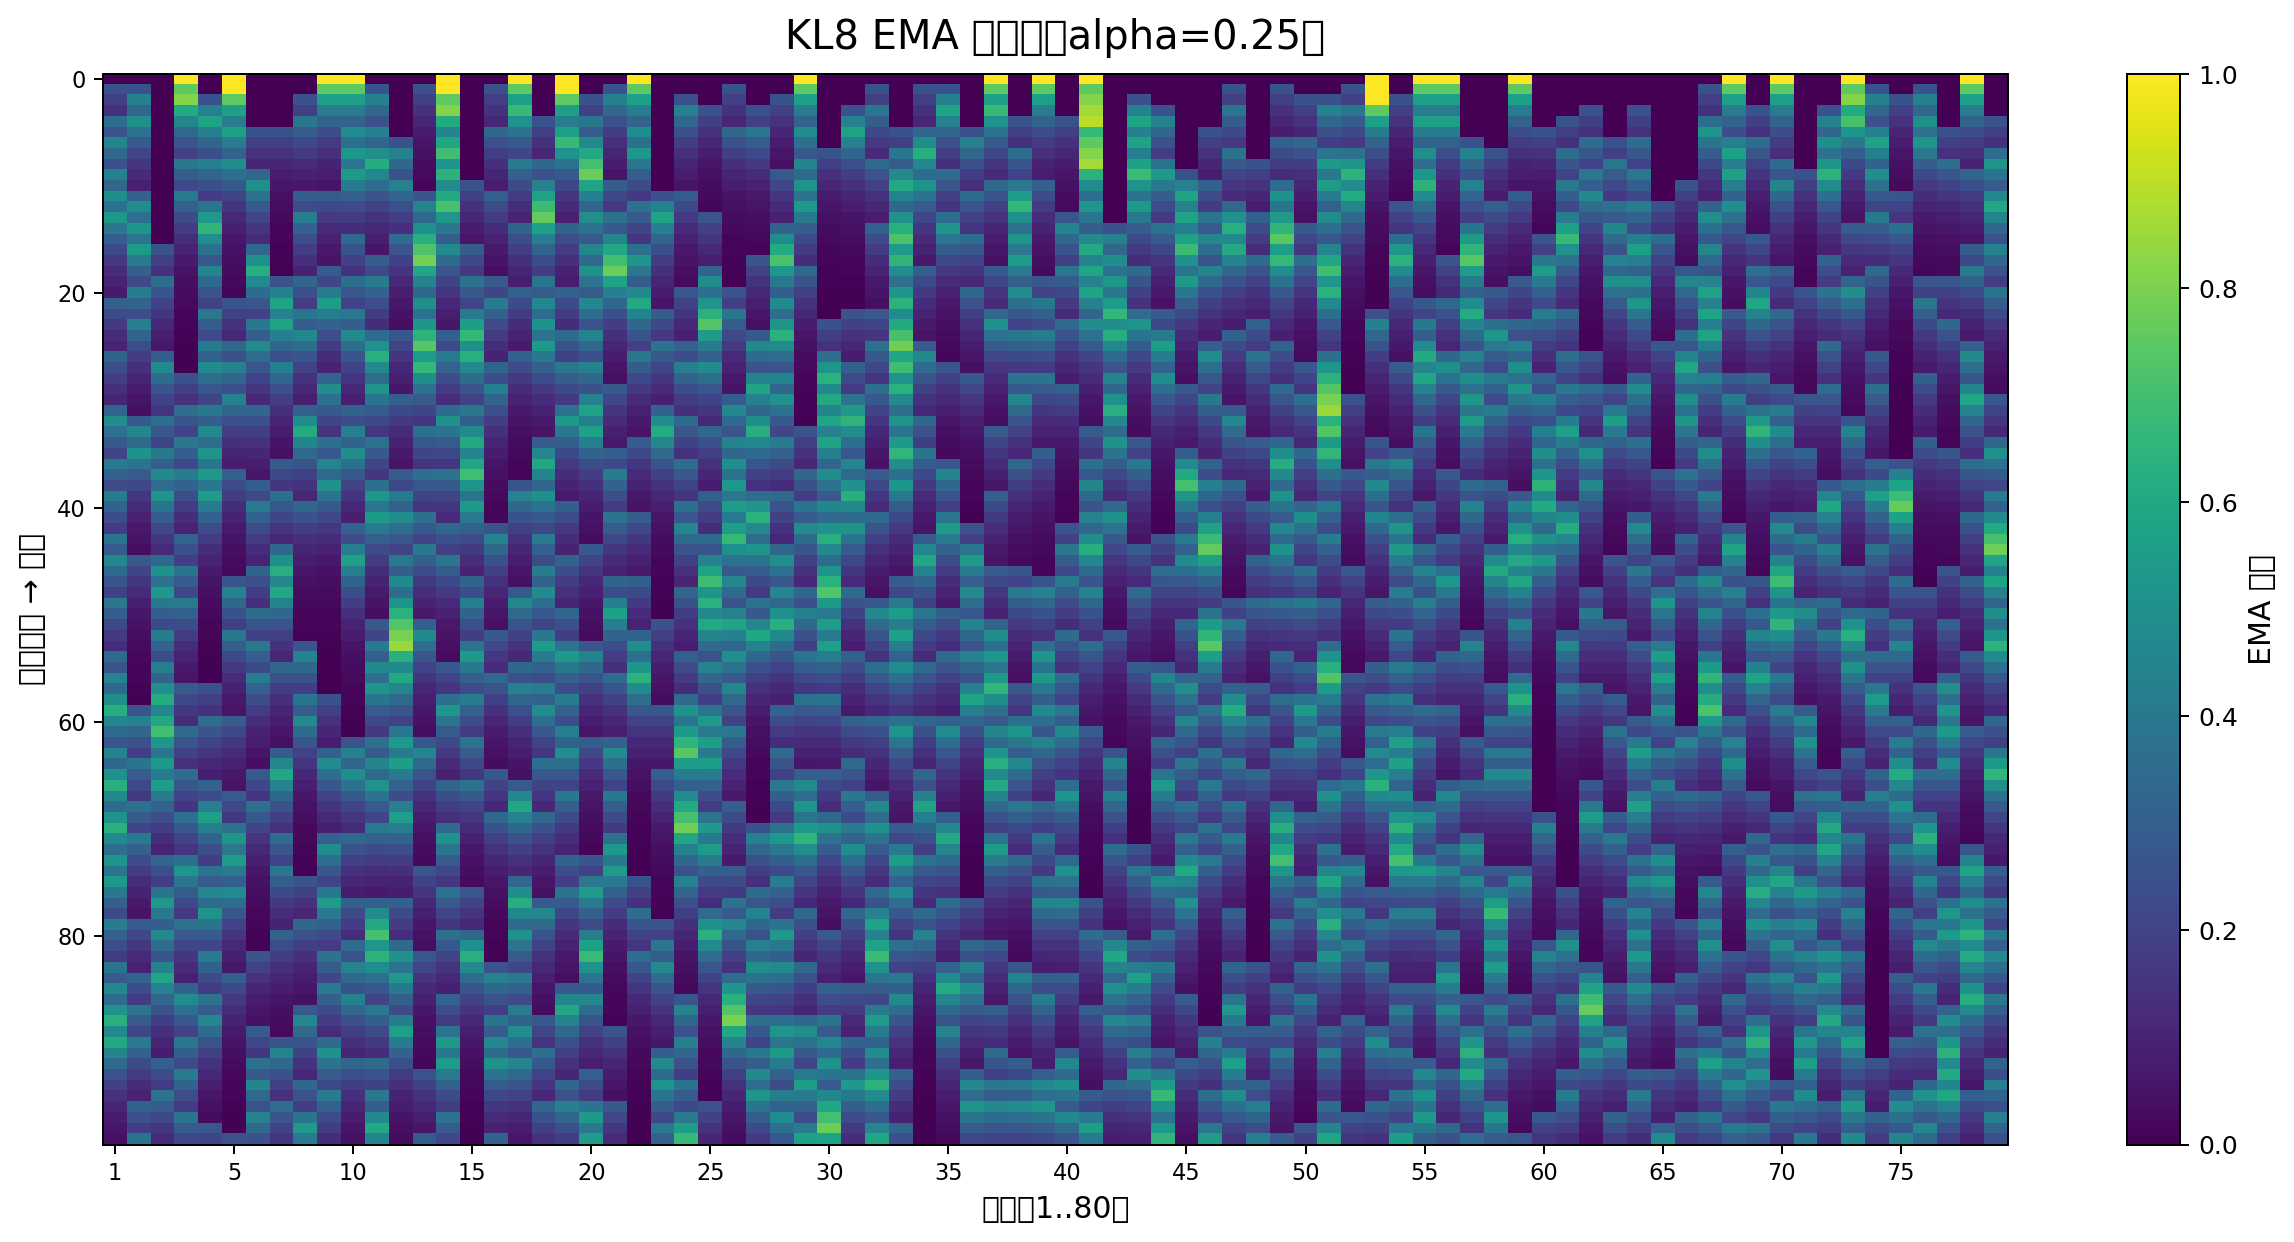
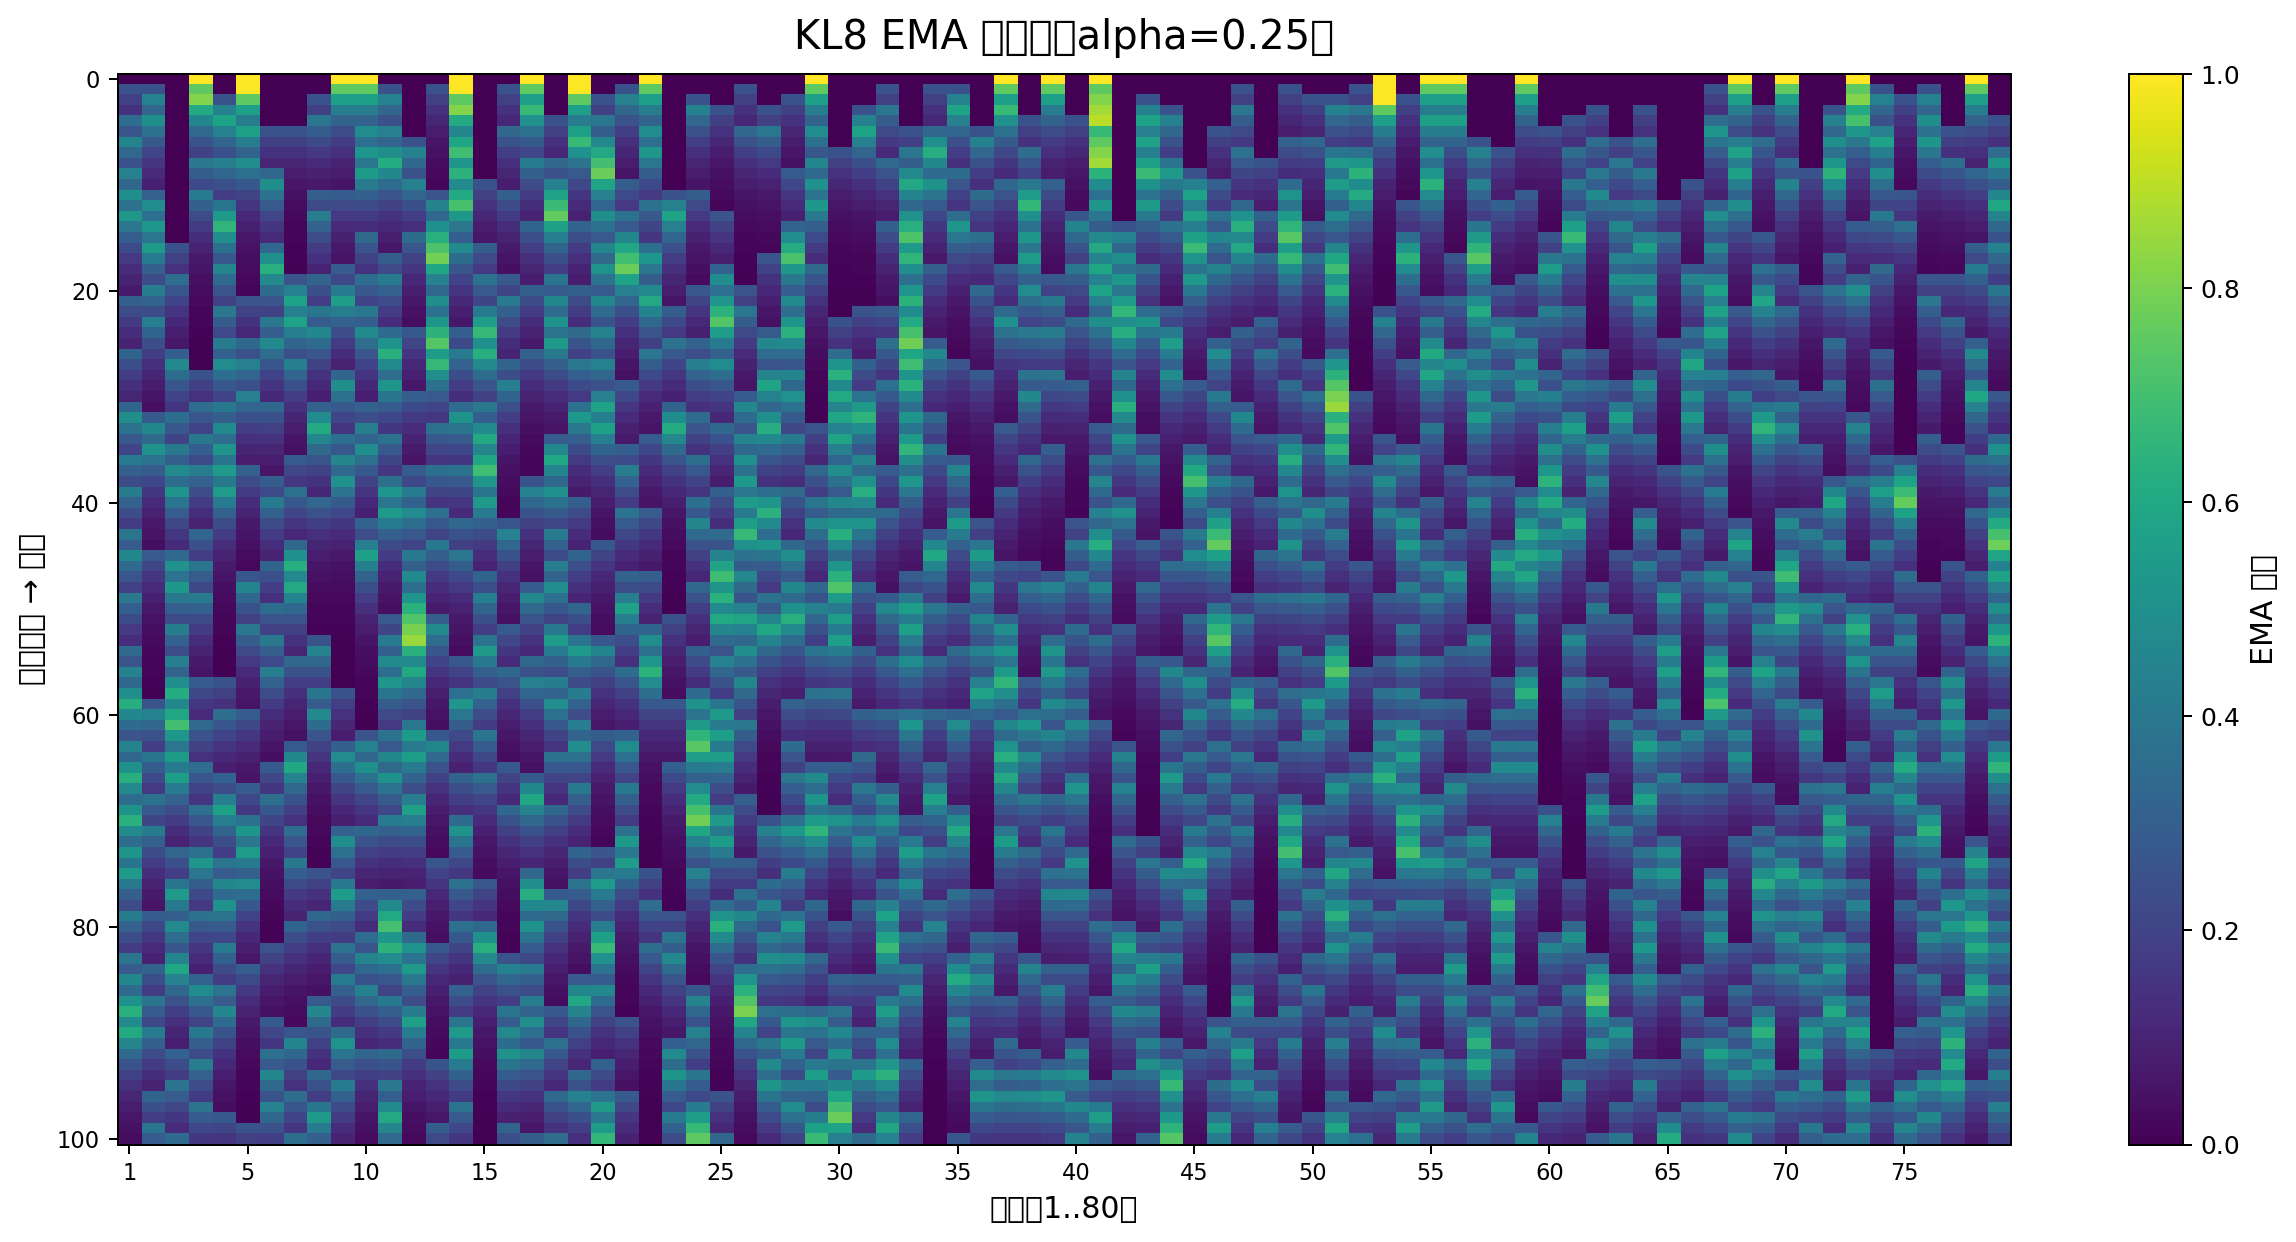
Update lottery data and analysis reports - 2025-08-15 23:15:19 (UTC+8)

Changed region(s): [[0.031, 0.0, 0.8976, 1.0]]

diff --git a/reports/kl8_analysis_report.md b/reports/kl8_analysis_report.md
@@ -3,30 +3,30 @@
 > 免责声明：历史数据无法预测未来。本报告仅供技术学习参考，不构成投注建议。
 
 
-**数据期数**: 100 期
+**数据期数**: 101 期
 
-**最近开奖**: 期号 2025216 | 日期 2025-08-14(四) | 号码: 02, 06, 14, 17, 21, 25, 30, 33, 45, 47, 49, 50, 52, 55, 58, 60, 66, 72, 74, 76
+**最近开奖**: 期号 2025217 | 日期 2025-08-15(五) | 号码: 03, 08, 18, 19, 21, 25, 26, 30, 32, 36, 41, 44, 45, 53, 60, 63, 64, 66, 69, 73
 
-**和值均值(样本)**: 803.54 ；**理论期望**: 810
+**和值均值(样本)**: 803.47 ；**理论期望**: 810
 
 
 ## 热号 Top15
 
-52(39), 34(35), 12(33), 01(32), 29(32), 68(31), 80(31), 21(30), 31(30), 50(30), 55(30), 15(29), 25(29), 05(28), 13(28)
+52(39), 34(35), 12(33), 01(32), 29(32), 21(31), 68(31), 80(31), 25(30), 31(30), 50(30), 55(30), 15(29), 19(29), 26(29)
 
 
 ## 冷号 Top15
 
-49(17), 53(18), 24(18), 67(19), 23(19), 17(19), 66(20), 64(20), 61(20), 06(20), 75(21), 63(21), 51(21), 37(21), 78(22)
+49(17), 24(18), 67(19), 53(19), 23(19), 17(19), 61(20), 06(20), 75(21), 66(21), 64(21), 51(21), 37(21), 78(22), 63(22)
 
 
 ## 推荐组合（示例，非投注建议）
 
-- 方案1: 01, 02, 03, 04, 08, 19, 20, 21, 24, 25, 37, 45, 47, 50, 52, 55, 56, 60, 69, 73
-- 方案2: 08, 09, 14, 29, 30, 32, 42, 43, 45, 48, 49, 55, 58, 64, 66, 68, 69, 71, 77, 78
-- 方案3: 04, 06, 07, 11, 19, 24, 31, 33, 34, 42, 45, 47, 49, 54, 66, 69, 73, 77, 79, 80
-- 方案4: 02, 11, 12, 15, 21, 24, 25, 34, 37, 41, 45, 48, 50, 52, 55, 58, 69, 72, 74, 77
-- 方案5: 09, 16, 17, 19, 20, 21, 24, 28, 30, 34, 35, 40, 42, 45, 47, 52, 54, 60, 71, 80
+- 方案1: 01, 03, 04, 05, 09, 20, 21, 22, 24, 25, 37, 44, 46, 50, 52, 55, 56, 61, 68, 72
+- 方案2: 08, 09, 14, 29, 30, 32, 43, 44, 45, 49, 50, 55, 58, 64, 65, 67, 68, 70, 76, 78
+- 方案3: 03, 19, 20, 21, 22, 24, 26, 28, 32, 36, 45, 52, 53, 55, 62, 68, 70, 73, 75, 80
+- 方案4: 04, 06, 08, 12, 19, 24, 31, 32, 34, 41, 45, 47, 49, 53, 65, 68, 72, 76, 79, 80
+- 方案5: 01, 03, 07, 08, 09, 15, 25, 27, 38, 42, 44, 57, 58, 61, 63, 66, 69, 70, 74, 76
 
 ---
 

diff --git a/reports/kl8_profit_plan.md b/reports/kl8_profit_plan.md
@@ -4,16 +4,16 @@
 
 - 总预算：¥22.00 ； 单注价格：¥2.00 ； 计划总注数：11
 
-- 最近开奖：期号 2025216 | 日期 2025-08-14(四) | 号码：02, 06, 14, 17, 21, 25, 30, 33, 45, 47, 49, 50, 52, 55, 58, 60, 66, 72, 74, 76
+- 最近开奖：期号 2025217 | 日期 2025-08-15(五) | 号码：03, 08, 18, 19, 21, 25, 26, 30, 32, 36, 41, 44, 45, 53, 60, 63, 64, 66, 69, 73
 
 
 ## 推荐组合与资金分配
 
-- 方案01 | 分数 0.331866 | 注数   2 | 金额 ¥4.00 | 号码：01, 02, 03, 04, 08, 19, 20, 21, 24, 25, 37, 45, 47, 50, 52, 55, 56, 60, 69, 73
-- 方案02 | 分数 0.318238 | 注数   2 | 金额 ¥4.00 | 号码：08, 09, 14, 29, 30, 32, 42, 43, 45, 48, 49, 55, 58, 64, 66, 68, 69, 71, 77, 78
-- 方案03 | 分数 0.321369 | 注数   2 | 金额 ¥4.00 | 号码：04, 06, 07, 11, 19, 24, 31, 33, 34, 42, 45, 47, 49, 54, 66, 69, 73, 77, 79, 80
-- 方案04 | 分数 0.374223 | 注数   3 | 金额 ¥6.00 | 号码：02, 11, 12, 15, 21, 24, 25, 34, 37, 41, 45, 48, 50, 52, 55, 58, 69, 72, 74, 77
-- 方案05 | 分数 0.307186 | 注数   2 | 金额 ¥4.00 | 号码：09, 16, 17, 19, 20, 21, 24, 28, 30, 34, 35, 40, 42, 45, 47, 52, 54, 60, 71, 80
+- 方案01 | 分数 0.263223 | 注数   1 | 金额 ¥2.00 | 号码：01, 03, 04, 05, 09, 20, 21, 22, 24, 25, 37, 44, 46, 50, 52, 55, 56, 61, 68, 72
+- 方案02 | 分数 0.296552 | 注数   2 | 金额 ¥4.00 | 号码：08, 09, 14, 29, 30, 32, 43, 44, 45, 49, 50, 55, 58, 64, 65, 67, 68, 70, 76, 78
+- 方案03 | 分数 0.299006 | 注数   3 | 金额 ¥6.00 | 号码：03, 19, 20, 21, 22, 24, 26, 28, 32, 36, 45, 52, 53, 55, 62, 68, 70, 73, 75, 80
+- 方案04 | 分数 0.302625 | 注数   3 | 金额 ¥6.00 | 号码：04, 06, 08, 12, 19, 24, 31, 32, 34, 41, 45, 47, 49, 53, 65, 68, 72, 76, 79, 80
+- 方案05 | 分数 0.290555 | 注数   2 | 金额 ¥4.00 | 号码：01, 03, 07, 08, 09, 15, 25, 27, 38, 42, 44, 57, 58, 61, 63, 66, 69, 70, 74, 76
 
 **合计**：¥22.00
 
